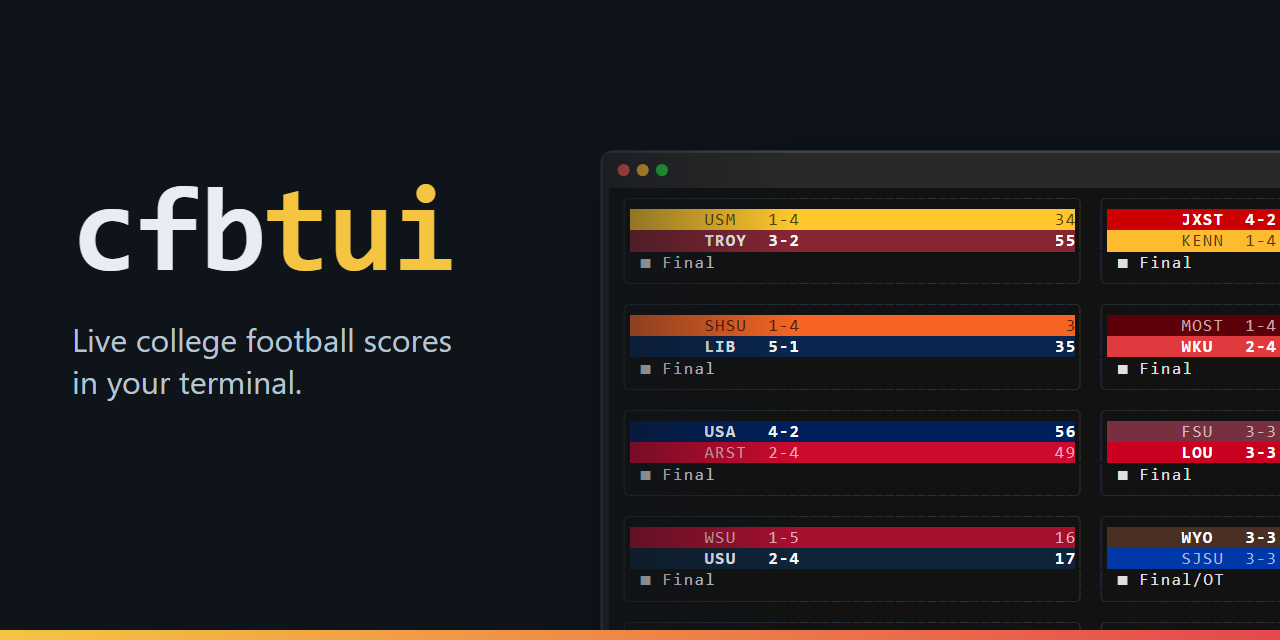
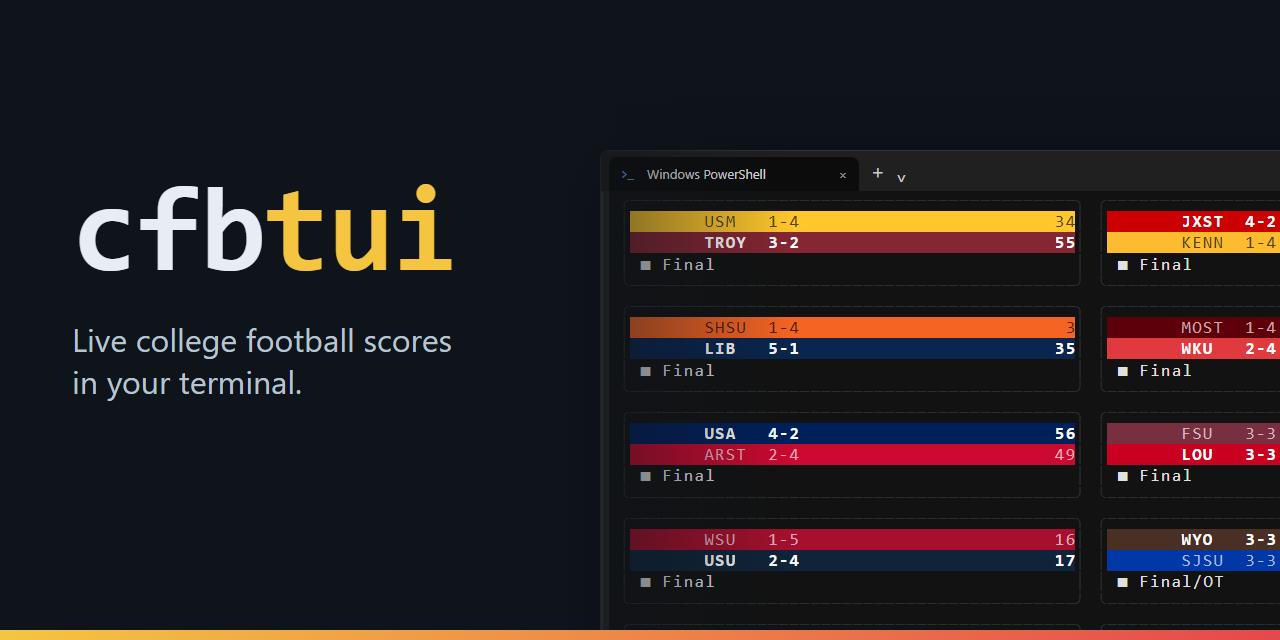
the window changes its coat
dots of red and green gone
a powershell tab

Poetic-Form: haiku

diff --git a/docs/img/social-preview.html b/docs/img/social-preview.html
@@ -3,8 +3,16 @@
 <style>
   html, body { margin: 0; width: 1280px; height: 640px; overflow: hidden; background: #0f141b; }
   body { position: relative; font-family: "Segoe UI", system-ui, sans-serif; color: #e8edf3; }
-  .shot { position: absolute; left: 600px; top: 150px; width: 1500px; border-radius: 12px;
-          box-shadow: 0 20px 60px rgba(0,0,0,.6); border: 1px solid #2a3442; }
+  .win { position: absolute; left: 600px; top: 150px; width: 1500px; height: 700px; border-radius: 8px 0 0 0;
+         overflow: hidden; background: #0c0c0c; box-shadow: 0 20px 60px rgba(0,0,0,.6); border: 1px solid #2a3442; }
+  .title { height: 40px; background: #202020; position: relative; }
+  .tab { position: absolute; left: 8px; top: 6px; height: 34px; width: 250px; background: #0c0c0c; border-radius: 8px 8px 0 0;
+         font: 13px/34px "Segoe UI", sans-serif; color: #e8e8e8; padding-left: 38px; box-sizing: border-box; }
+  .tab::before { content: ">_"; position: absolute; left: 12px; font: 700 12px/34px Consolas, monospace; color: #5ea0ef; }
+  .tab::after { content: "×"; position: absolute; right: 12px; color: #aaa; font-size: 12px; }
+  .plus { position: absolute; left: 270px; top: 0; font: 20px/38px "Segoe UI", sans-serif; color: #ccc; }
+  .body { overflow: hidden; height: 660px; }
+  .shot { display: block; width: 1500px; margin-top: -38px; }
   .fade { position: absolute; inset: 0; background: linear-gradient(90deg, #0f141b 0 34%, rgba(15,20,27,0) 62%); }
   .text { position: absolute; left: 72px; top: 170px; width: 520px; }
   h1 { margin: 0; font: 700 120px/1 Consolas, "Cascadia Mono", monospace; letter-spacing: -2px; }
@@ -12,7 +20,10 @@
   p { margin: 28px 0 0; font-size: 32px; line-height: 1.3; color: #b8c4d2; }
   .bar { position: absolute; left: 0; right: 0; bottom: 0; height: 10px; background: linear-gradient(90deg, #f5c542, #e5484d); }
 </style>
-<img class="shot" src="grid-unicode.svg">
+<div class="win">
+  <div class="title"><div class="tab">Windows PowerShell</div><div class="plus">+ &nbsp;&#8964;</div></div>
+  <div class="body"><img class="shot" src="grid-unicode.svg"></div>
+</div>
 <div class="fade"></div>
 <div class="text">
   <h1>cfb<span>tui</span></h1>

diff --git a/cfbtui/__init__.py b/cfbtui/__init__.py
@@ -1,4 +1,4 @@
 """cfbtui: a colorful college football scoreboard for the terminal."""
 
 # FibVer. Do not edit by hand; use `python -m cfbtui.version bump <part> --write`.
-__version__ = "1.1.21"
+__version__ = "1.1.34"

diff --git a/CHANGELOG.md b/CHANGELOG.md
@@ -2,6 +2,10 @@
 
 Release notes for cfbtui, kept the way a fortress overseer keeps a journal. Newest first. Versions follow FibVer.
 
+## 1.1.34 (2026-10-12)
+
+- The poster's scoreboard was found sitting in a window with three little traffic-light dots, which is how Macs dress. It has been moved into a Windows Terminal tab marked "Windows PowerShell" and says it feels more like itself.
+
 ## 1.1.21 (2026-10-12)
 
 - A 1280 by 640 poster was made for the repository's front door. It has the name in large letters, a promise in smaller letters, and a scoreboard peeking in from the right, as though it had been listening.
